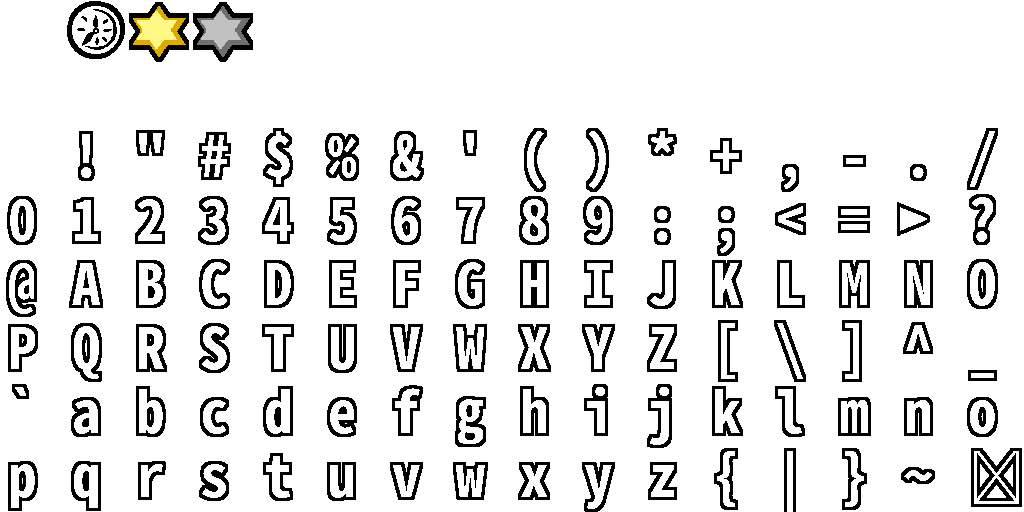
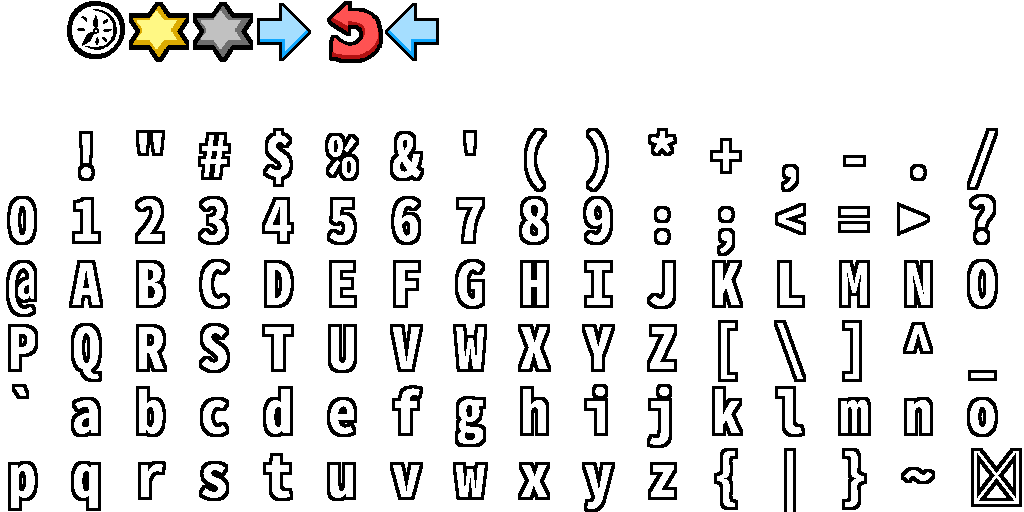
Stage menu button stuff

Changed region(s): [[0.25, 0.0, 0.4375, 0.125]]

diff --git a/src/Scenes/StageMenu/Grid.cpp b/src/Scenes/StageMenu/Grid.cpp
@@ -5,6 +5,9 @@
 
 #include "../../Core/Utility.hpp"
 
+// Maximum page
+static const int MAX_PAGE = 1;
+
 
 // Update block size
 void BlockScale::update(float tm) {
@@ -22,6 +25,17 @@ void BlockScale::update(float tm) {
         scale -= SPEED * tm;
         if(scale <= target)
             scale = target;
+    }
+}
+
+
+// Reset scalings
+void Grid::resetBlockScalings() {
+
+    for(int i = 0; i < blockScale.size(); ++ i) {
+
+        blockScale[i].scale = 1.0f;
+        blockScale[i].target = 1.0f;
     }
 }
 
@@ -48,6 +62,7 @@ Grid::Grid(AssetPack* assets, int w, int h,
     // Set defaults
     cpos.x = 0;
     cpos.y = 0;
+    page = 0;
 
     // Set block scales to default
     blockScale = std::vector<BlockScale> (width*height);
@@ -96,13 +111,46 @@ void Grid::update(EventManager* evMan, float tm) {
 
         blockScale[i].update(tm);
     }
+
+    // Check button press
+    bool pressed = vpad->getButton("start") == State::Pressed ||
+        vpad->getButton("accept") == State::Pressed;
+
+    // TODO: To a different method
+    if(pressed) {
+
+        // Next & previous symbols
+        if(page != MAX_PAGE && cpos.x == width-1 && 
+            cpos.y == height-1) {
+        
+            ++ page;
+            cpos.x = 0;
+            cpos.y = 0;
+            resetBlockScalings();
+        }
+        else if(page != 0 && cpos.x == 0 && 
+            cpos.y == 0) {
+        
+            -- page;
+            cpos.x = width-1;
+            cpos.y = height-1;
+            resetBlockScalings();
+        }
+
+        // Quit (TEMPORARY!)
+        if(page == 0 && cpos.x == 0 && cpos.y == 0) {
+
+            evMan->terminate();
+        }
+    }
 }
 
 
 // Draw
 void Grid::draw(Graphics* g, float tx, float ty) {
 
-    const float DARKEN = 0.80f;
+    const float DARKEN = 0.85f;
+    const float BRIGHTEN = 1.10f;
     const float TEXT_XOFF = -32.0f;
     const float TEXT_BASE_SCALE = 1.25f;
 
@@ -112,7 +160,6 @@ void Grid::draw(Graphics* g, float tx, float ty) {
     const float BUTTON_SHADOW_X = 8;
     const float BUTTON_SHADOW_Y = 8;
     
-
     Vector2 view = g->getViewport();
 
     g->push();
@@ -131,6 +178,7 @@ void Grid::draw(Graphics* g, float tx, float ty) {
     float s;
     float textScale;
     float col;
+    std::string num;
     for(int y = 0; y < height; ++ y) {
 
         for(int x = 0; x < width; ++ x) {
@@ -139,7 +187,7 @@ void Grid::draw(Graphics* g, float tx, float ty) {
             if(cpos.x == x && cpos.y == y) {
 
                 nscale = 1.25f;
-                col = 1.0f;
+                col = BRIGHTEN;
             }
             else {
 
@@ -165,9 +213,27 @@ void Grid::draw(Graphics* g, float tx, float ty) {
                 blockSize.x*s, blockSize.y*s);
 
             // Draw number
+            num = " ";
+            if(page != MAX_PAGE && 
+                y == height-1 && x == width-1) {
+
+                num[0] = (char)4;
+                cx -= 4;
+                cy -= 2;
+            }
+            else if(x == 0 && y == 0) {
+
+                num[0] = page > 0 ?(char)6 : (char)5;
+                cx -= 12;
+                cy -= 4;
+            }
+            else
+                num = intToString(y*width+x + page*(width*height));
+
             textScale = TEXT_BASE_SCALE* blockSize.x/128.0f * s;
-            g->drawText(bmpFont, intToString(x+y*width +1),
-                cx+xoff/2, cy-32.0f*textScale, 
+            g->drawText(bmpFont, num,
+                cx+xoff/2, 
+                cy-32.0f*textScale, 
                 TEXT_XOFF, 0, 
                 TEXT_SHADOW_X*textScale,
                 TEXT_SHADOW_Y*textScale, 

diff --git a/src/Scenes/StageMenu/StageMenu.cpp b/src/Scenes/StageMenu/StageMenu.cpp
@@ -7,12 +7,12 @@
 // Initialize scene
 void StageMenu::init() {
 
-    const int WIDTH = 8;
-    const int HEIGHT = 5;
-    const float BUTTON_W = 80;
-    const float BUTTON_H = 80;
-    const float XOFF = 16;
-    const float YOFF = 16;
+    const int WIDTH = 6;
+    const int HEIGHT = 4;
+    const float BUTTON_W = 92;
+    const float BUTTON_H = 92;
+    const float XOFF = 20;
+    const float YOFF = 20;
 
     // Get bitmaps
     bmpFont = assets->getBitmap("font");
@@ -40,7 +40,7 @@ void StageMenu::draw(Graphics* g) {
     const float SHADOW_X = 4.0f;
     const float SHADOW_Y = 6.0f;
     const float SHADOW_ALPHA = 0.5f;
-    const float GRID_YOFF = 0.0f;
+    const float GRID_YOFF = -16.0f;
 
     Vector2 view = g->getViewport();
 

diff --git a/src/Scenes/StageMenu/Grid.hpp b/src/Scenes/StageMenu/Grid.hpp
@@ -54,6 +54,11 @@ private:
 
     // Cursor position
     Point cpos;
+    // Page
+    int page;
+
+    // Reset scalings
+    void resetBlockScalings();
 
 public:
 
